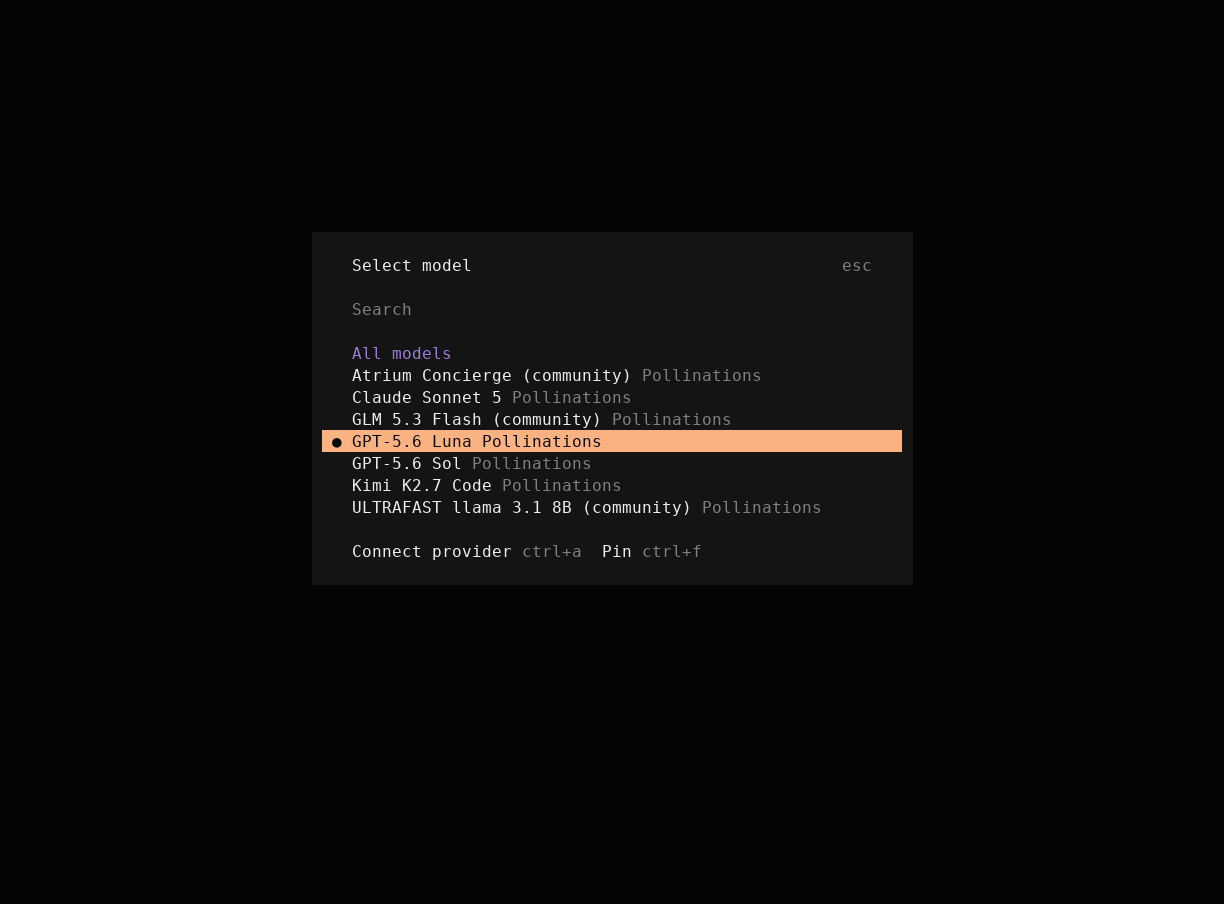
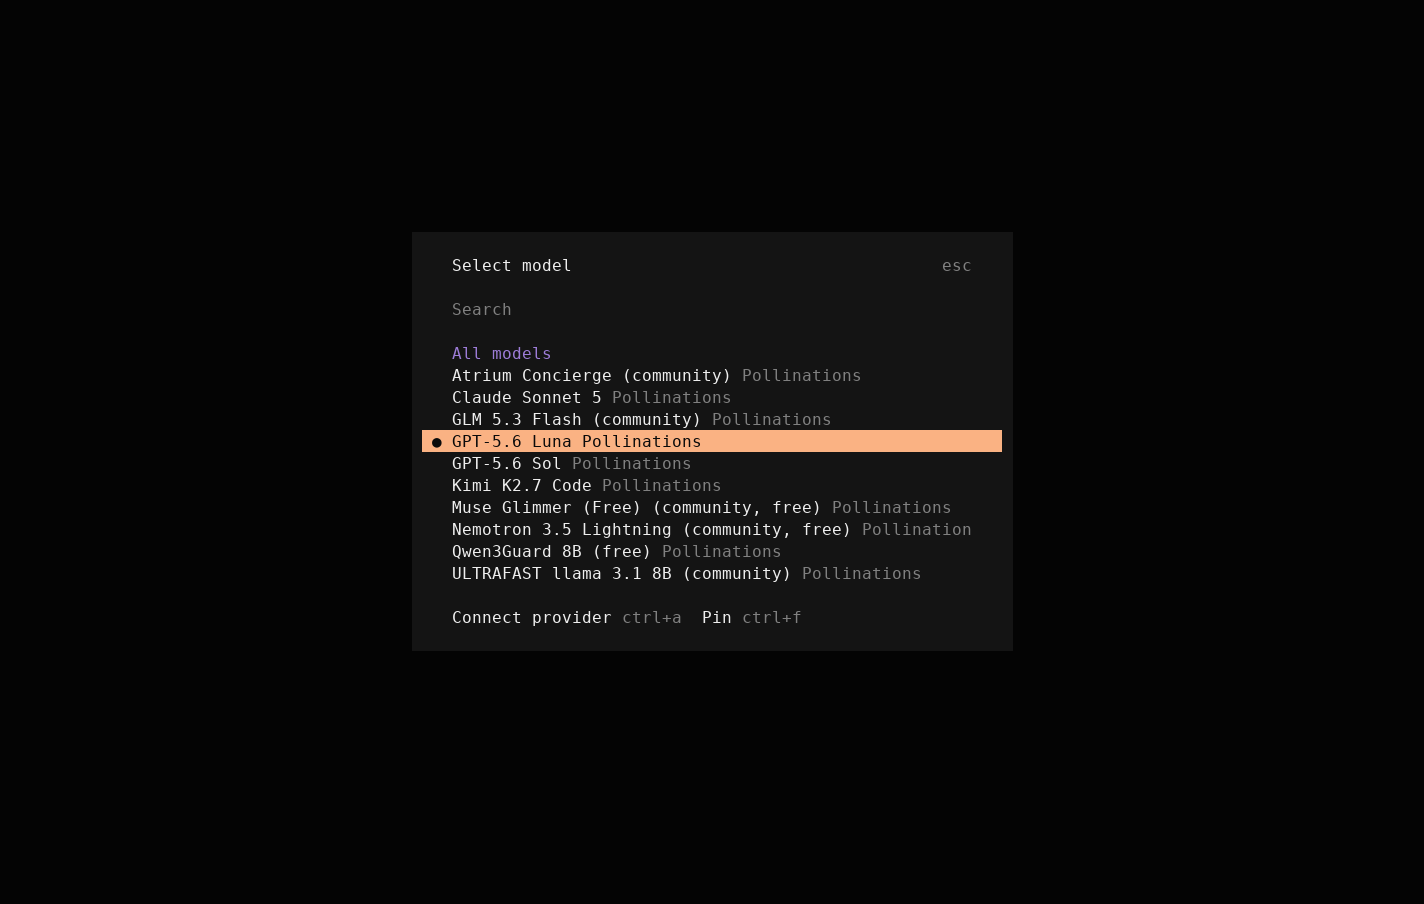
feat(provider): label free Pollinations models by dashboard rule

diff --git a/packages/opencode/test/provider/pollinations.test.ts b/packages/opencode/test/provider/pollinations.test.ts
@@ -145,7 +145,7 @@ describe("pollinations model list", () => {
     expect(parseModelList(body).map((entry) => entry.id)).toEqual(["openai/gpt-5.4-nano", "google/gemini-4-neon"])
   })
 
-  test("keeps community LLMs, and labels them community and free only on explicit zero pricing", () => {
+  test("keeps community LLMs, labelling them community and free under the dashboard rule", () => {
     const names = Object.fromEntries(
       parseModelList({ data: [communityPriced, communityFree, communityUnpriced, paidOnly] }).map((entry) => [
         entry.id,
@@ -158,6 +158,54 @@ describe("pollinations model list", () => {
       "community/unpriced-chat": "Unpriced Chat (community)",
       "google/gemini-4-neon": "Gemini 4 Neon",
     })
+  })
+
+  test("labels free models that declare no positive price, as the dashboard does", () => {
+    const declaredFree = {
+      id: "community/scriptsnsenses-sys/minimax-m3.1-flash-free",
+      category: "text",
+      community: true,
+      title: "MiniMax M3.1 Flash (FREE)",
+      input_modalities: ["text"],
+      output_modalities: ["text"],
+      supported_endpoints: ["/v1/chat/completions"],
+      paid_only: false,
+      pricing: { currency: "pollen" },
+    }
+    const official = { ...declaredFree, id: "qwen/qwen3guard-gen-8b", community: false, title: "Qwen3Guard 8B" }
+    const names = Object.fromEntries(parseModelList({ data: [declaredFree, official] }).map((e) => [e.id, e.name]))
+    expect(names).toEqual({
+      "community/scriptsnsenses-sys/minimax-m3.1-flash-free": "MiniMax M3.1 Flash (FREE) (community, free)",
+      "qwen/qwen3guard-gen-8b": "Qwen3Guard 8B (free)",
+    })
+  })
+
+  test("does not label a model free when any declared price is positive", () => {
+    const base = { ...communityFree, pricing: { currency: "pollen", promptTextTokens: "0", completionTextTokens: "0" } }
+    const variant = {
+      ...communityFree,
+      id: "x/variant",
+      pricing: { currency: "pollen" },
+      pricing_variants: [{ name: "fast", pricing: { currency: "pollen", promptTextTokens: "0.000001" } }],
+    }
+    const adjustment = {
+      ...communityFree,
+      id: "x/adjustment",
+      pricing: { currency: "pollen" },
+      pricing_adjustments: [{ name: "search", price: "2.5", kind: "search_request" }],
+    }
+    const names = Object.fromEntries(parseModelList({ data: [base, variant, adjustment] }).map((e) => [e.id, e.name]))
+    expect(names).toEqual({
+      "community/open-chat": "Open Chat (community, free)",
+      "x/variant": "Open Chat (community)",
+      "x/adjustment": "Open Chat (community)",
+    })
+  })
+
+  test("never labels an agent free, even with currency-only pricing", () => {
+    const agent = { ...communityFree, id: "x/agent", agent: true, pricing: { currency: "pollen" } }
+    const [entry] = parseModelList({ data: [agent] })
+    expect(entry?.name).toBe("Open Chat (community)")
   })
 
   test("never labels a paid-only model free, even with zero prices", () => {

diff --git a/packages/opencode/src/provider/pollinations.ts b/packages/opencode/src/provider/pollinations.ts
@@ -54,8 +54,8 @@ export type ModelEntry = {
 /**
  * Keeps only chat LLMs from a `/v1/models` body (`{ data: [...] }`). Image,
  * video, audio, embedding, and decision entries are dropped. Community models
- * stay in the list, labelled with `community`, and `free` when they publish an
- * explicit zero price and are not paid-only.
+ * stay in the list, labelled with `community`, and `free` under the rule in
+ * `isFree`.
  */
 export function parseModelList(body: unknown): ModelEntry[] {
   const list = isRecord(body) ? body.data : undefined
@@ -125,8 +125,7 @@ function toEntry(record: Record<string, unknown>, id: string): ModelEntry {
   const pricing = isRecord(record.pricing) ? record.pricing : {}
   const capabilities = strings(record.capabilities)
   const community = record.community === true
-  const free =
-    record.paid_only !== true && price(pricing.promptTextTokens) === 0 && price(pricing.completionTextTokens) === 0
+  const free = record.paid_only !== true && isFree(record)
   const title = typeof record.title === "string" && record.title.trim() ? record.title : id
   const labels = [...(community ? ["community"] : []), ...(free ? ["free"] : [])]
   const topProvider = isRecord(record.top_provider) ? record.top_provider : {}
@@ -147,6 +146,31 @@ function toEntry(record: Record<string, unknown>, id: string): ModelEntry {
       cacheWrite: perMillion(pricing.promptCacheWriteTokens),
     },
   }
+}
+
+/**
+ * Mirrors the dashboard rule: a model is free when it declares pricing, no
+ * numeric price is positive (base, variant, or adjustment), and it is not an
+ * agent. Catalog entries for free models carry only `currency`, so a missing
+ * price is a zero price here, not an unknown one.
+ */
+function isFree(record: Record<string, unknown>) {
+  const pricing = record.pricing
+  if (record.agent === true || !isRecord(pricing)) return false
+  const variants = Array.isArray(record.pricing_variants) ? record.pricing_variants : []
+  const adjustments = Array.isArray(record.pricing_adjustments) ? record.pricing_adjustments : []
+  return (
+    !Object.values(pricing).some(isPositive) &&
+    !variants.some(
+      (variant) => isRecord(variant) && isRecord(variant.pricing) && Object.values(variant.pricing).some(isPositive),
+    ) &&
+    !adjustments.some((adjustment) => isRecord(adjustment) && isPositive(adjustment.price))
+  )
+}
+
+function isPositive(value: unknown) {
+  const number = price(value)
+  return number !== undefined && number > 0
 }
 
 function modalities(list: string[]) {

diff --git a/packages/tui/test/cli/tui/pollinations-model-list.test.tsx b/packages/tui/test/cli/tui/pollinations-model-list.test.tsx
@@ -38,7 +38,8 @@ type Setup = Awaited<ReturnType<typeof testRender>>
 
 // Model rows mirror what `GET /config/providers` returns for the Pollinations
 // provider after `parseModelList`: names carry the `community` and `free`
-// labels, and prices are per million tokens. Chat-capable LLM entries sampled
+// labels, and prices are per million tokens. Free rows declare no positive
+// price, as the live catalog does. Chat-capable LLM entries sampled
 // from the live `gen.pollinations.ai/v1/models` catalog are used as the source.
 function pollinationsModel(input: {
   id: string
@@ -135,6 +136,28 @@ const pollinationsModels = Object.fromEntries(
       tools: true,
       reasoning: true,
       context: 1_048_576,
+    }),
+    pollinationsModel({
+      id: "qwen/qwen3guard-gen-8b",
+      name: "Qwen3Guard 8B (free)",
+      input: 0,
+      output: 0,
+      context: 128_000,
+    }),
+    pollinationsModel({
+      id: "community/YoannDev90/vercel-nemotron-3.5-lightning:free",
+      name: "Nemotron 3.5 Lightning (community, free)",
+      input: 0,
+      output: 0,
+      tools: true,
+      context: 128_000,
+    }),
+    pollinationsModel({
+      id: "community/vendouple/muse-glimmer-30b:free",
+      name: "Muse Glimmer (Free) (community, free)",
+      input: 0,
+      output: 0,
+      context: 128_000,
     }),
     pollinationsModel({
       id: "community/tomdacatto/llama-3.1-8B",
@@ -282,7 +305,7 @@ async function mountModelDialog(width: number, height: number): Promise<Harness>
 
 describe("pollinations model list in the TUI", () => {
   test("renders Pollinations LLMs with community labels in the model dialog", async () => {
-    const harness = await mountModelDialog(120, 40)
+    const harness = await mountModelDialog(140, 40)
     harness.dialog.replace(() => <DialogModel />)
     const frame = await waitFor(harness.app, () => {
       const text: string = harness.app.captureCharFrame()
